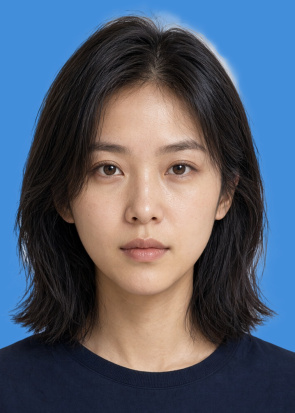
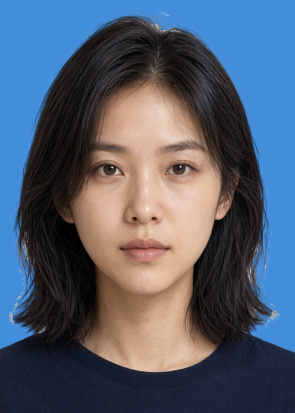
docs: 说明两处白边成因，重新生成演示图并同步 SKILL 文档

diff --git a/README.md b/README.md
@@ -143,7 +143,7 @@ python3 -m venv .venv
       ↓
 人像分割（rembg IS-Net → alpha）
       ↓
-抠图后处理（补洞 → 引导滤波细化 alpha → 去背景色污染）
+抠图后处理（补洞 → 细化 alpha → 颜色线重解 alpha → 去背景色污染）
       ↓
 预乘 Alpha 缩放与纯色背景合成
       ↓
@@ -171,16 +171,24 @@ out = C · a + B1 · (1 - a) = a²·F + a(1-a)·B0 + (1-a)·B1
 
 只要原背景是浅色（白墙、白布、灰白影棚底），深色新背景上就必然出现一圈灰白 halo。
 
-`segmenter.py` 的后处理按四步解决，顺序不能颠倒：
+`segmenter.py` 的后处理按五步解决，顺序不能颠倒：
 
 | 步骤 | 函数 | 作用 |
 | --- | --- | --- |
 | 1. 补洞 | `fill_holes` + `keep_largest_component` | 模型常把深色头发/衣服误判成背景，在人物内部挖洞；从图像外边界灌水，灌不到的区域即为内部空洞，补成不透明 |
-| 2. **细化 alpha** | `refine_alpha` | 模型 alpha 是低分辨率上采样的，在发丝处"该透不透、该实不实"。引导滤波（guided filter）以灰度图为引导，把 alpha 重新对齐到真实图像边缘 |
-| 3. **去背景色污染** | `estimate_background_field` + `decontaminate` | 在原背景上拟合平滑背景色场 `B(x,y)`，再反解 `F = (C - (1-a)·B) / a`，把夹带进去的背景色减掉 —— 这是消除白边最彻底的一步 |
-| 4. 内收兜底 | `trim_alpha` | 可选，沿轮廓内收 1~2px（会牺牲发丝，默认关闭） |
+| 2. 细化 alpha | `refine_alpha` | 模型 alpha 是低分辨率上采样的，在发丝处"该透不透、该实不实"。引导滤波（guided filter）以灰度图为引导，把 alpha 重新对齐到真实图像边缘 |
+| 3. **颜色线重解 alpha** | `color_line_alpha` | 上面两层都救不了的情况：模型在虚焦发丝处把 alpha 判成接近 1，那片像素的颜色其实就是原背景色。给再高的 alpha 也变不出头发，只能按 `C = a·F + (1-a)·B` 用内/外两侧外推出的 F、B 反解 `a = (C-B)·(F-B)/‖F-B‖²` |
+| 4. **去背景色污染** | `estimate_background_field` + `decontaminate` | 在原背景上拟合平滑背景色场 `B(x,y)`，再反解 `F = (C - (1-a)·B) / a`，把夹带进去的背景色减掉 |
+| 5. 内收兜底 | `trim_alpha` | 可选，沿轮廓内收 1~2px（会牺牲发丝，默认关闭） |
 
-第 3 步是**关键**：把抠图输出的 RGB 从"原图像素"换成了"去污染后的前景色"，所以 `cutout()` 返回的 RGBA 里的 RGB 不等于原图对应像素，这是刻意的。
+第 3 步和第 4 步解决的是两种不同病因，缺一不可：
+
+- **第 3 步治"alpha 给多了"**。典型画面是头顶那圈发丝：模型判成不透明，像素颜色却还是原来的浅灰白底色。这类像素无论怎么去污染，反解结果仍是灰白，贴到蓝/红底上就是一圈白光 —— 错的是 `a` 本身，必须重解。
+- **第 4 步治"颜色夹带了背景"**。alpha 判得对，但半透明像素的 RGB 里混着原背景色，需要减掉。
+
+因此 `cutout()` 返回的 RGBA 里，**RGB 不一定等于原图对应像素**，alpha 也可能与模型输出不同，这都是刻意的；不要为了"看着像原图"把它们改回去。
+
+第 3 步只在背景场可信（第 4 步的闸门通过）时执行。前背景颜色过于接近时（白衬衫配白底），投影会退化成噪声，此时保留模型原 alpha。
 
 背景色为什么不取一个全局颜色，而要拟合一张场：真实照片的背景几乎从不是绝对纯色 —— 墙面明暗不均、影棚布光渐变、镜头暗角都会让背景色在画面上漂移几十个灰阶。只用一个中位数去反解，估偏的部分会原样留在边缘，深色底上依然是白边。`estimate_background_field` 把画面切成小块统计背景均值、对被人像盖住的块做 inpaint 外推，再向上采样成低频场，因此渐变背景也能跟上。
 
@@ -204,6 +212,7 @@ out = C · a + B1 · (1 - a) = a²·F + a(1-a)·B0 + (1-a)·B1
 | `ALPHA_MATTING` | `True` | 走 pymatting 闭式抠图，发丝过渡带最自然、残留白边最轻，代价是耗时翻倍；追求速度可关掉 |
 | `ALPHA_REFINE_RADIUS` | `6` | 引导滤波半径，越大越贴合真实轮廓，过大会磨平细节 |
 | `BACKGROUND_SOLID_TOLERANCE` | `20.0` | 背景场拟合残差容差，超过则判定背景不可靠、跳过反解 |
+| `COLOR_LINE_RADIUS` | `10` | 轮廓带内重解 alpha 的宽度（像素），`0` 关闭。越大越能压住虚焦发丝，过大会把细发丝也一起吃掉 |
 | `DECONTAMINATE_FLOOR` | `0.25` | 反解时 alpha 的下限，防止除零放大噪点 |
 | `EDGE_TRIM_PX` | `0` | 额外内收像素数，兜底用 |
 
@@ -249,7 +258,7 @@ outputs/         默认输出目录（Git 忽略）
 .venv/bin/python -m unittest discover -s tests -v
 ```
 
-共 54 个测试，覆盖规格换算、颜色解析、构图与边界钳制、预乘合成、抠图后处理（补洞 / alpha 细化 / 背景场拟合 / 去背景色污染）、人脸检测的缩放与坐标还原、流水线编排、JPEG DPI 写入。真实人像集成测试需要私有测试图和两个模型，条件不满足时会自动跳过。
+共 58 个测试，覆盖规格换算、颜色解析、构图与边界钳制、预乘合成、抠图后处理（补洞 / alpha 细化 / 颜色线重解 / 背景场拟合 / 去背景色污染）、人脸检测的缩放与坐标还原、流水线编排、JPEG DPI 写入。真实人像集成测试需要私有测试图和两个模型，条件不满足时会自动跳过。
 
 ## 已知限制
 

diff --git a/.qoder/skills/idphoto/SKILL.md b/.qoder/skills/idphoto/SKILL.md
@@ -5,7 +5,7 @@ description: Operate and maintain the local ID-photo auto-crop and background-re
 
 # ID Photo Studio
 
-Local-only ID photo tool: YuNet detects the largest face, a 2×face-height crop is composed to a 5:7 frame, rembg U²-Net cuts out the portrait, and premultiplied-alpha compositing replaces the background.
+Local-only ID photo tool: YuNet detects the largest face, a 2×face-height crop is composed to a 5:7 frame, rembg (IS-Net) cuts out the portrait, and premultiplied-alpha compositing replaces the background.
 
 ## Commands
 
@@ -47,7 +47,7 @@ Writes `outputs/{stem}_{size}_{bg}.jpg` by default and prints face box, crop box
 .venv/bin/python -m unittest discover -s tests -v
 ```
 
-29 `unittest` tests (not pytest). The real-portrait integration test skips automatically when `assets/test/private/portrait_source.png` or either model is absent.
+58 `unittest` tests (not pytest). The real-portrait integration test skips automatically when `assets/test/private/portrait_source.png` or either model is absent.
 
 Acceptance check with the bundled demo:
 
@@ -76,12 +76,14 @@ YuNet should report a face score of about 0.9 on the demo. If no display is avai
 | `idphoto/io_utils.py` | EXIF-corrected read, alpha over white, RGB→BGR; JPEG/PNG write with DPI |
 | `idphoto/detector.py` | `Face`, YuNet via `cv2.FaceDetectorYN`, Haar fallback |
 | `idphoto/compose.py` | `CropBox`, `compute_crop_box`, premultiplied-alpha `render_crop` |
-| `idphoto/segmenter.py` | Lazy rembg U²-Net session, RGBA cutout |
+| `idphoto/segmenter.py` | Lazy rembg session, RGBA cutout, five-step postprocess (fill holes → guided-filter alpha → colour-line alpha → decontaminate → optional trim) |
 | `idphoto/pipeline.py` | `PhotoResult`; detect → cutout → render orchestration |
 | `idphoto/cli.py` | Argument parsing and CLI output |
 | `idphoto/app.py` | Tkinter Canvas shell, DnD, camera loop, crop mouse events, save |
 
 Data contracts: `read_image` returns BGR; the detector expects BGR; `cutout` returns RGBA; background colors are RGB; `render_crop` returns RGB `uint8`.
+
+`cutout` RGB is **deliberately not** the source pixels: `decontaminate` rewrites partial-alpha pixels with `F = (C − (1−a)·B0) / max(a, DECONTAMINATE_FLOOR)`, so the cutout carries de-fringed colours instead of the original background-tinted ones. Do not "restore" the original RGB anywhere downstream, or the old halo comes back. Fully opaque and fully transparent pixels keep their source colour, so only the transition band differs.
 
 Fixed specs: one-inch 295×413, two-inch 413×579, both 300 DPI. Crop math: height `2.0 × face.height`, width `height × target_aspect`, top `face.y − 0.45 × face.height`, horizontally centered on the face, then clamped and proportionally shrunk to the image bounds.
 
@@ -93,6 +95,12 @@ Fixed specs: one-inch 295×413, two-inch 413×579, both 300 DPI. Crop math: heig
 - rembg ≥2.0.7x moved its cache to a nested `<U2NET_HOME>/models/<name>/<name>.onnx` layout, while this project (pinned `rembg==2.0.69`) expects the flat `<U2NET_HOME>/<name>.onnx`. If rembg is ever upgraded, `PortraitSegmenter._load_session` will stop finding models — re-check the layout before bumping the pin.
 - YuNet must not be fed full-resolution large images: confidence collapses (measured 0.654 on a 1760×2464 photo, below the 0.85 threshold, plus one spurious face) and it rose to 0.924 once the long side was capped at `DETECT_MAX_SIDE` (1080). Keep the resize + coordinate scale-back in `_detect_yunet`.
 - `segmenter.py` sets `NUMBA_THREADING_LAYER=workqueue` before importing rembg to avoid the TBB interface warning; keep it.
+- Halos have **two independent causes**, and fixing one does not fix the other:
+  1. Foreground RGB still carries the old background colour `B0` → handled by `decontaminate`.
+  2. The model marks soft/out-of-focus flyaway hair as nearly opaque `a≈1`, where the pixel colour *is* the old background → no amount of decontamination helps, the alpha itself is wrong. Handled by `color_line_alpha`, which re-solves `a = (C−B)·(F−B)/‖F−B‖²` inside a `COLOR_LINE_RADIUS` band around the silhouette. Setting `COLOR_LINE_RADIUS = 0` disables it and the top-of-head glow returns.
+- `_extend_colour` must stay a single-sided **normalised convolution** (`GaussianBlur(source·weights) / GaussianBlur(weights)`), not `cv2.inpaint` and not nearest-known-pixel fill. Inpaint pulls colour across the band from the opposite side (foreground and background fields bleed into each other, alpha solves wrong and tests fail); nearest-neighbour fill produces bright blotches on smooth gradients.
+- `color_line_alpha` only runs when `estimate_background_field` returns a field (flat or smoothly varying background). On busy backgrounds F/B cannot be estimated, and the projection would wreck the edge — that is intentional, not a missing branch.
+- `postprocess` fill-holes step only sets **newly filled** interior holes to 1.0. Re-binarising the whole mask hardens the soft band and makes halos worse (measured 82.1 → 103.8 on the halo metric).
 - `render_crop` must keep `np.rint` before `uint8` and premultiplied alpha; truncation causes dark halos and breaks compositing tests.
 - Never reintroduce `cv2.imshow` / `cv2.waitKey`; the Tk event loop owns input and display. Frames remain BGR arrays rendered by `_build_*_frame`, then shown through `_show_canvas` (RGB → PIL → `PhotoImage.paste`).
 - Keyboard events are bound to the Canvas. Call `canvas.focus_force()` after mapping, not only `root.focus_force()`, or shortcuts do nothing until the first mouse click.
